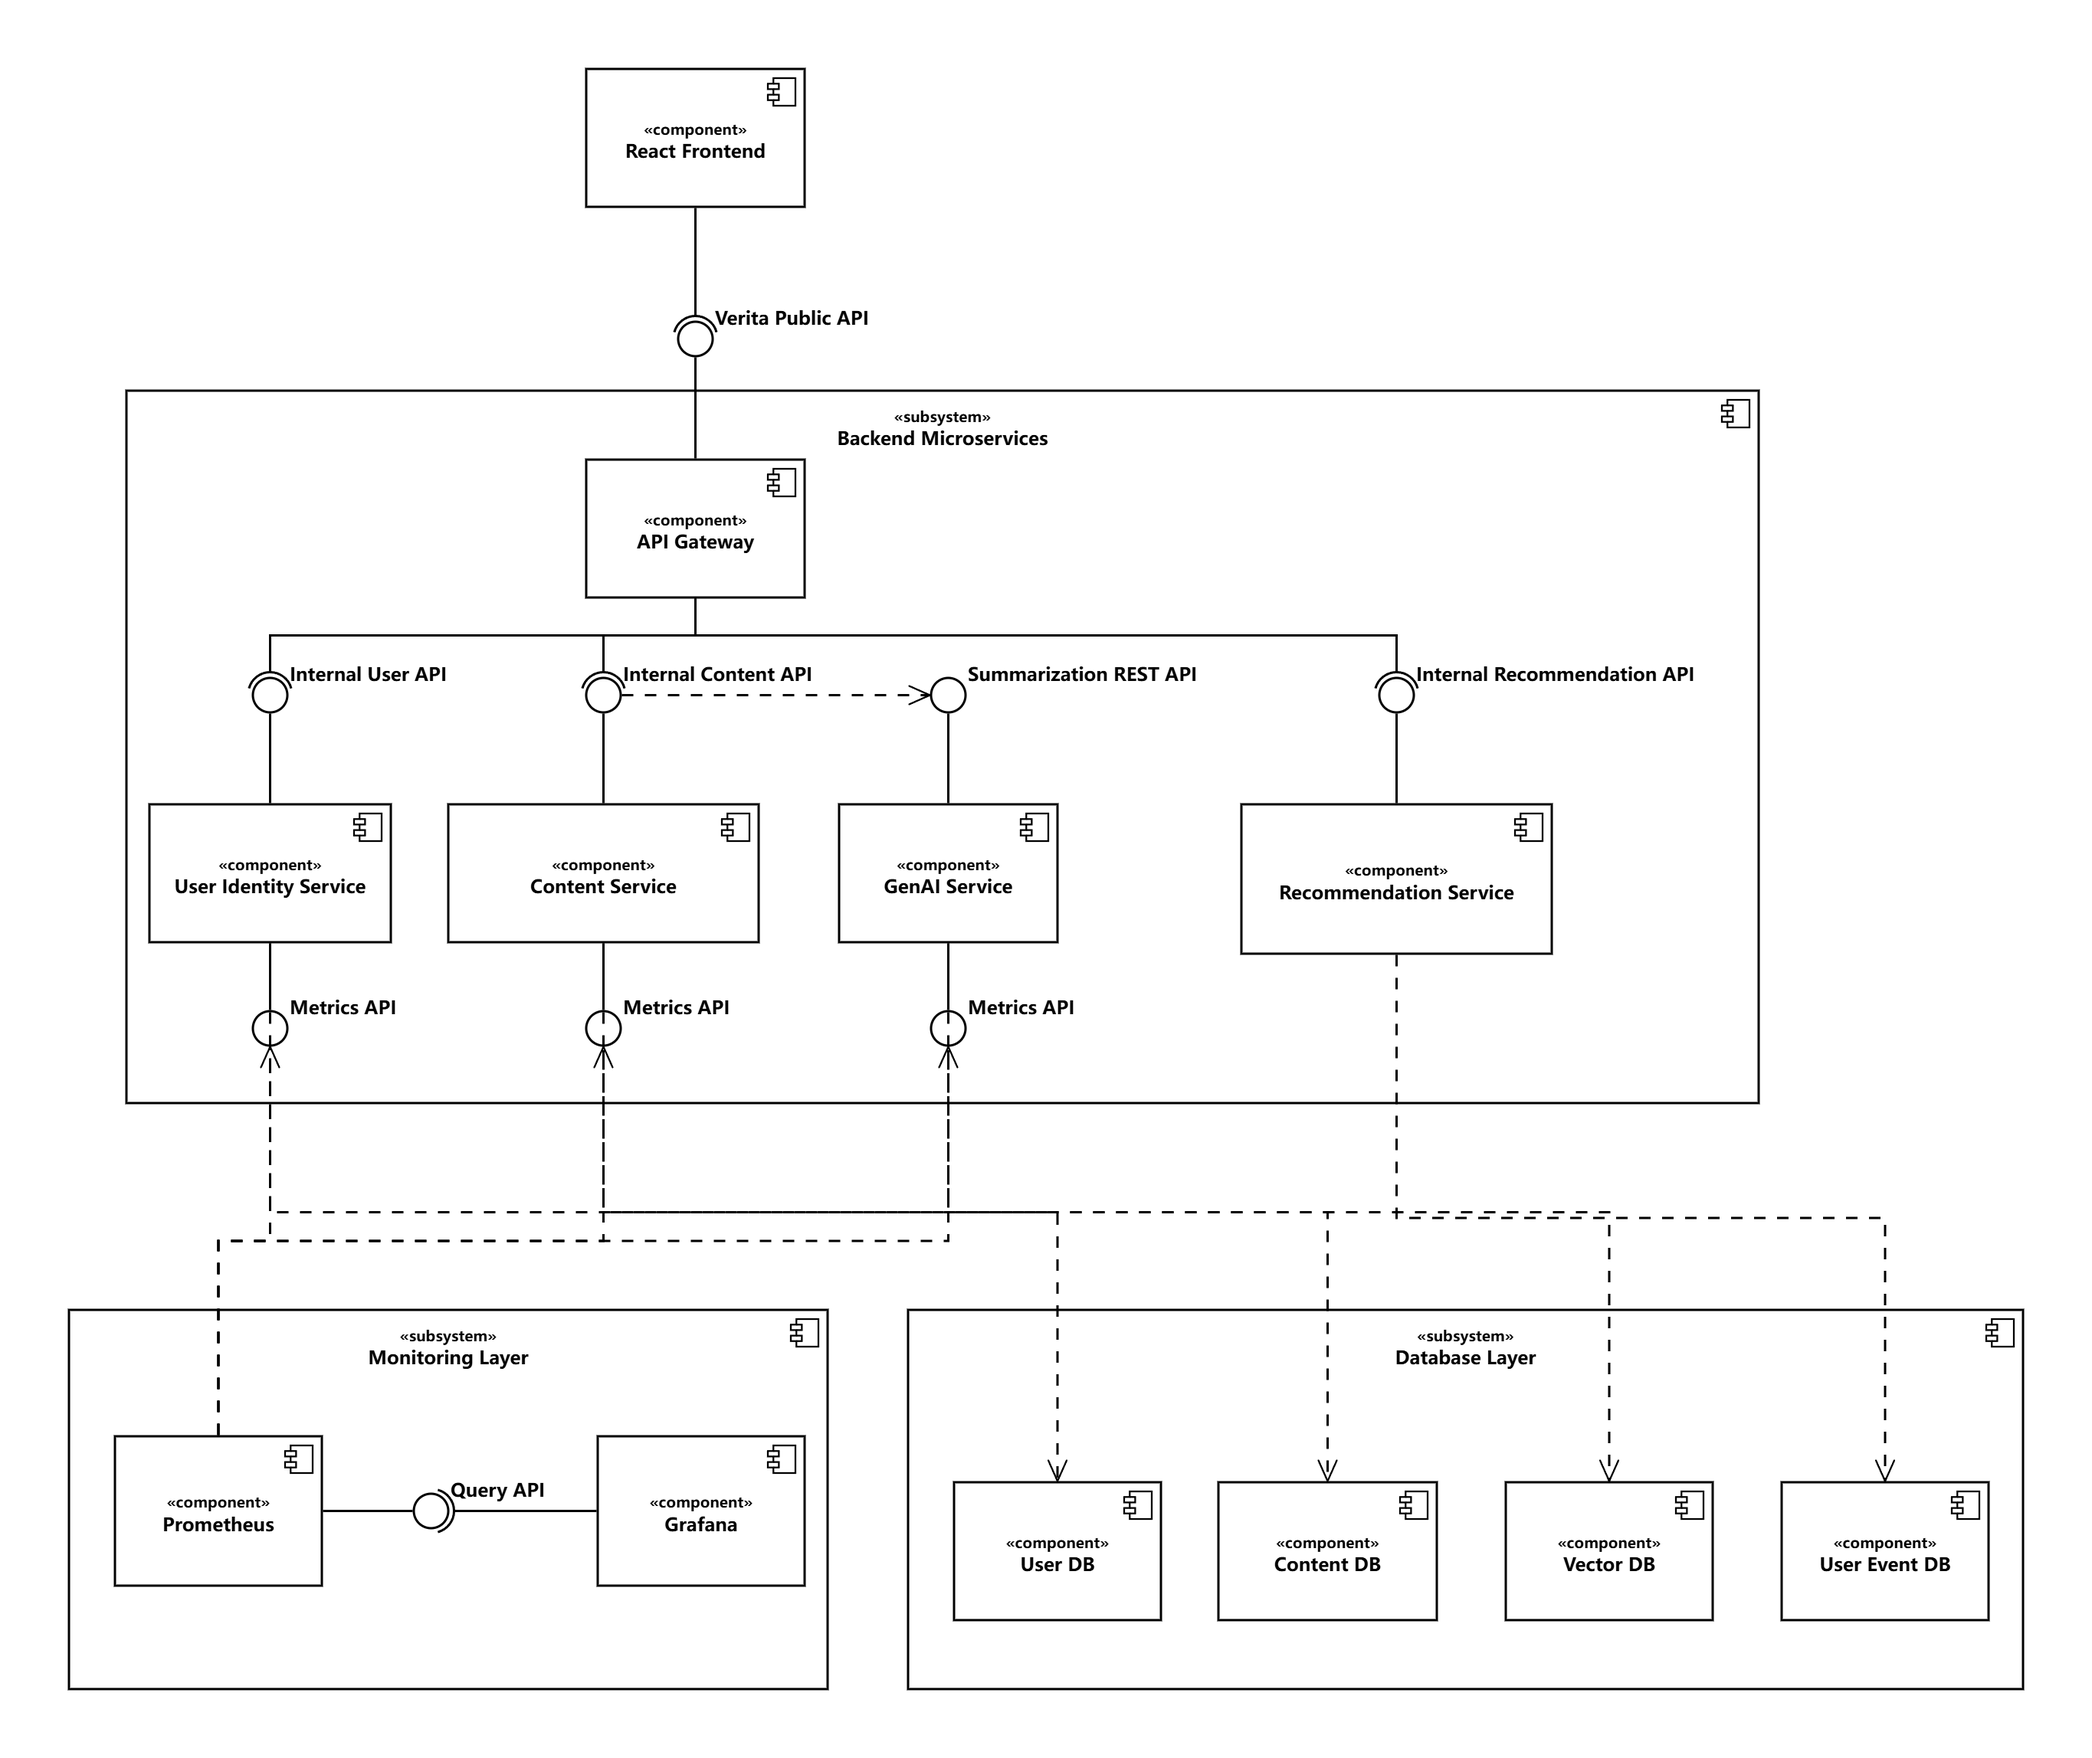
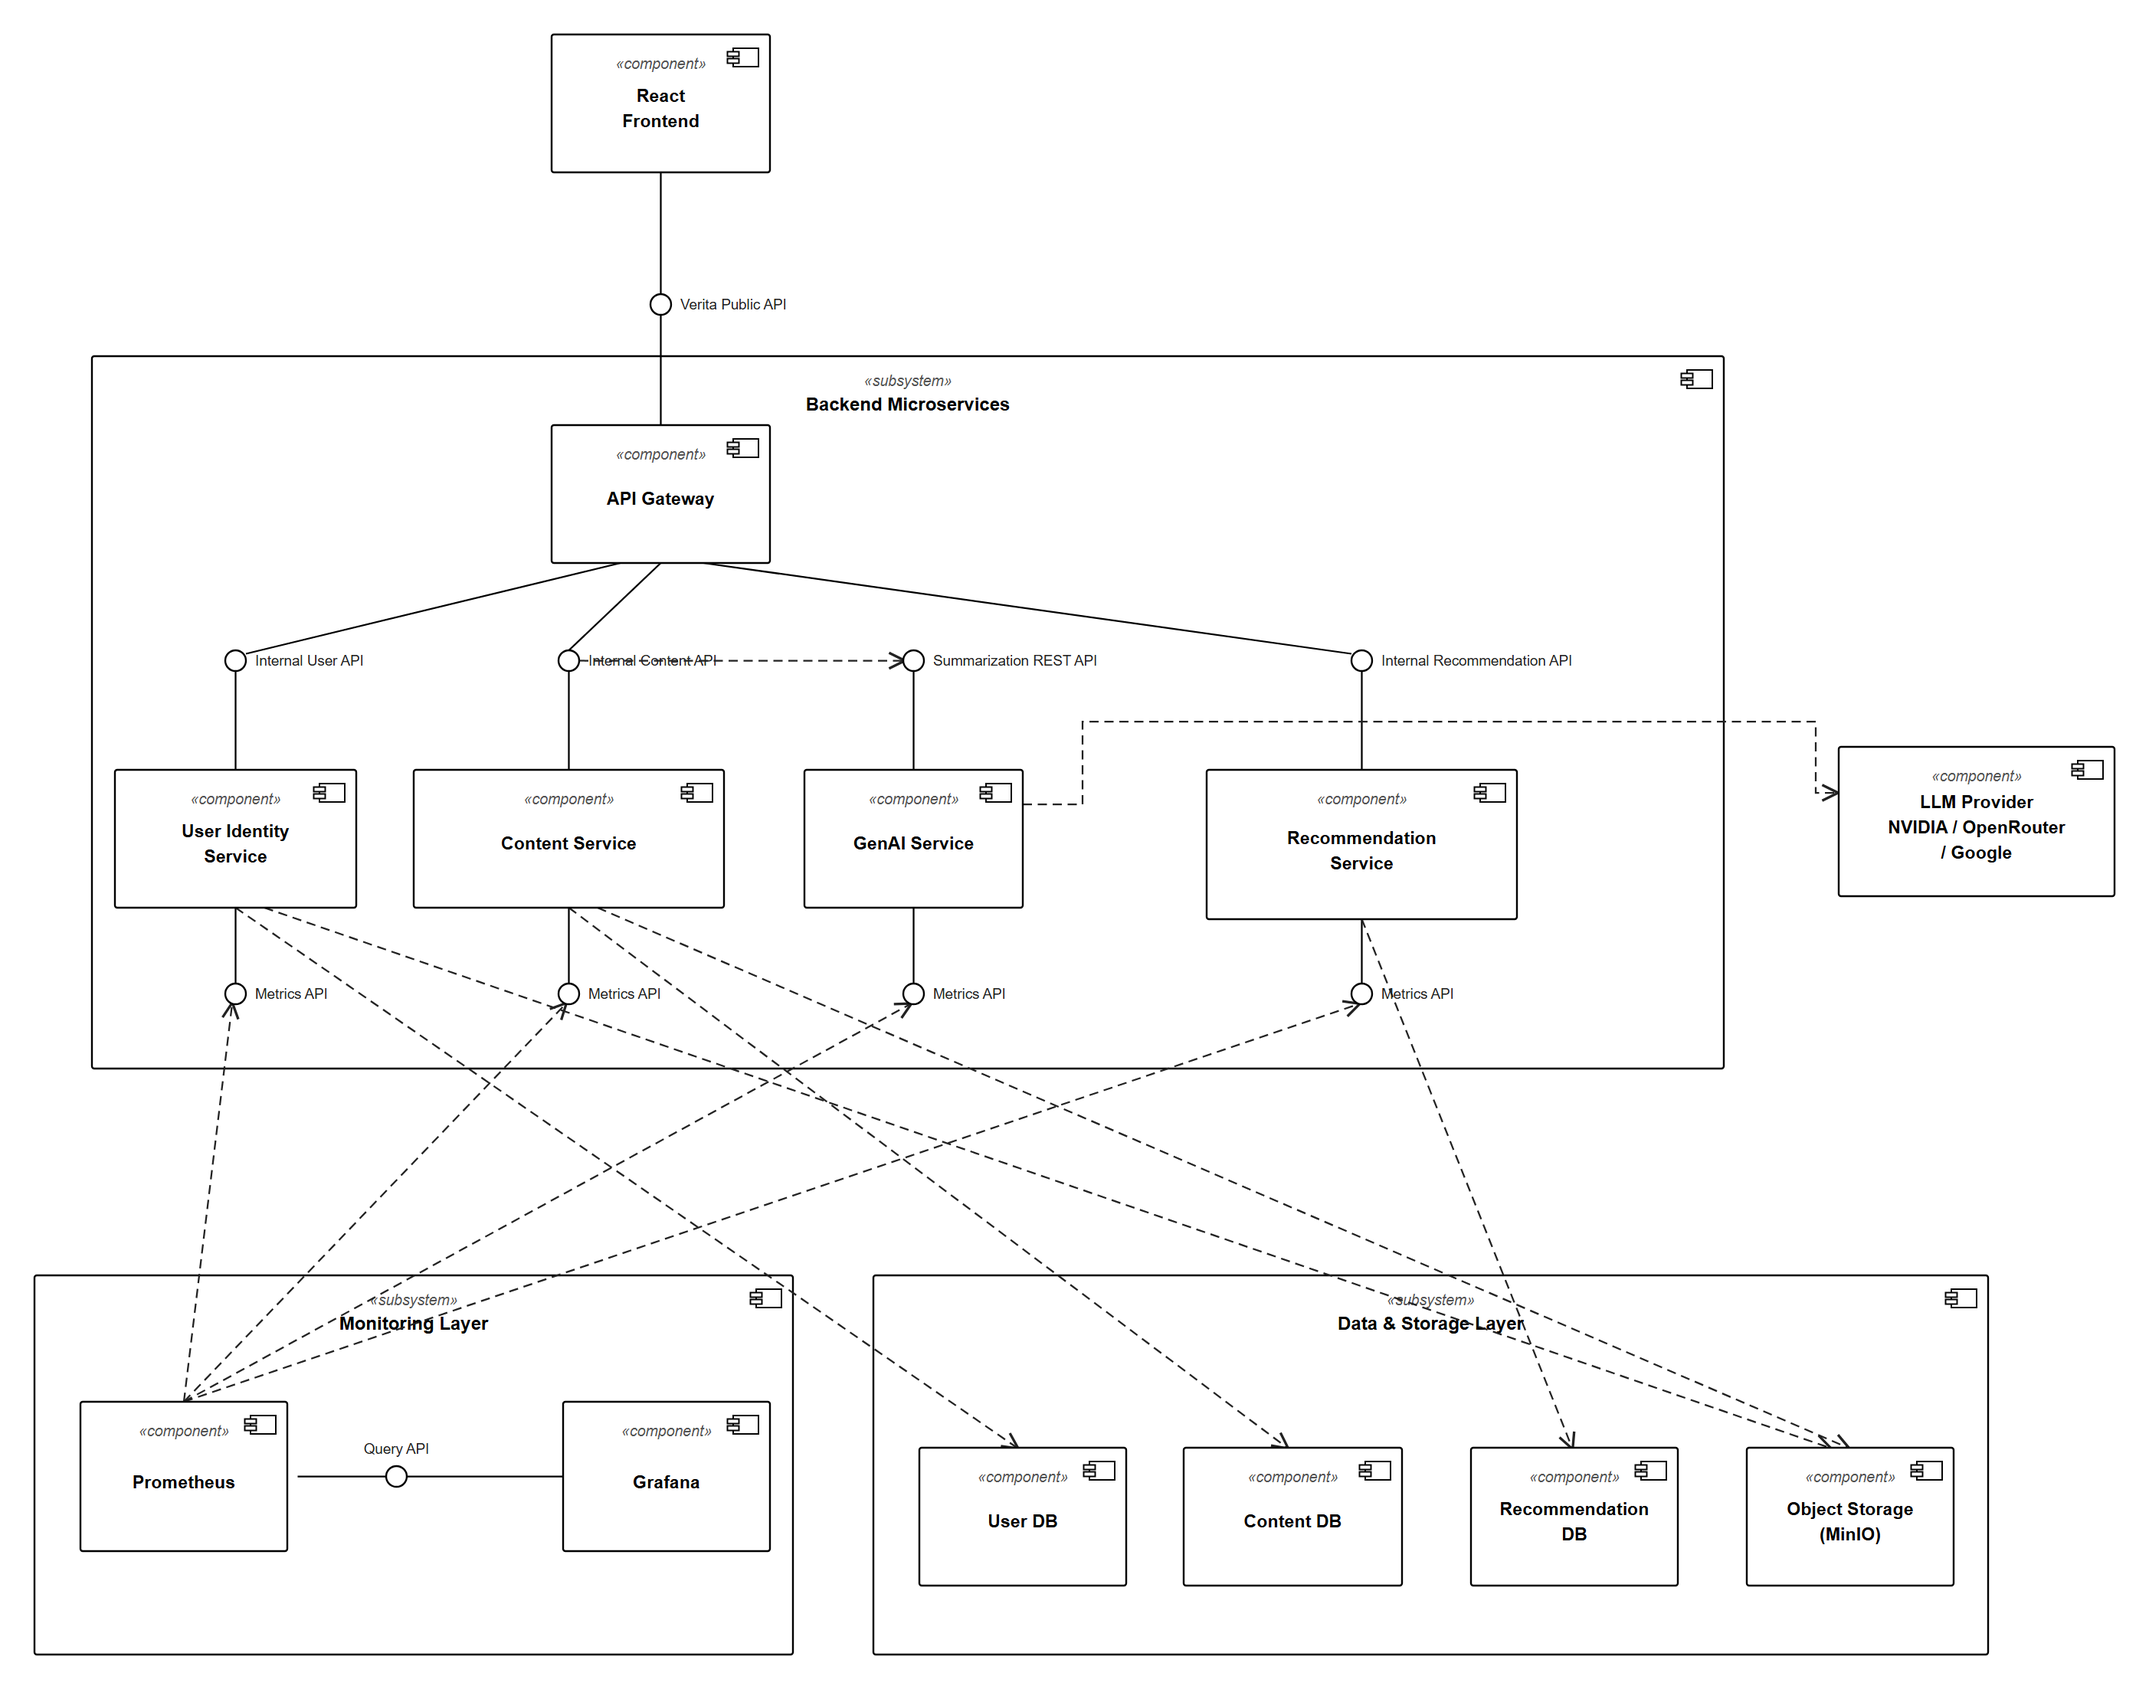
updated system architecture

diff --git a/docs/System_Overview_Architecture.md b/docs/System_Overview_Architecture.md
@@ -2,8 +2,8 @@
 
 **Project:** AI Knowledge Sharing Platform (Verita)
 **Team:** Colleagues.md
-**Date:** May 2026
-**Version:** 1.0
+**Date:** June 2026
+**Version:** 1.1
 
 ---
 
@@ -35,8 +35,9 @@ The system follows a microservices architecture consisting of:
 - **GenAI Service:** AI-powered summarization, daily digest generation
 
 **Infrastructure Layer:**
-- **API Gateway:** JWT authentication, request routing, rate limiting
-- **PostgreSQL Database:** Logically separated schemas per service
+- **API Gateway / Reverse Proxy:** Path-prefix routing that strips the prefix before forwarding (Vite proxy in local dev, frontend nginx on the Azure VM, nginx Ingress on Kubernetes). JWT tokens are validated independently by each backend service, not at the gateway.
+- **PostgreSQL Databases:** One PostgreSQL 16 instance per service (user, content, recommendation) — there is no shared instance
+- **Object Storage (MinIO):** S3-compatible store for user portraits and post images
 - **Monitoring Stack:** Prometheus and Grafana for observability
 
 **Client Layer:**
@@ -139,32 +140,37 @@ Start simple → Add complexity only when needed → Optimize based on real requ
 ```yaml
 Framework: FastAPI (Python 3.12)
 AI Framework: LangChain
-LLM Support:
-  Cloud (Required - P1):
-    - OpenAI API (GPT-4, GPT-3.5-turbo)
-  Local (Optional - P2):
-    - GPT4All
-    - LLaMA via Ollama
+LLM Provider: Pluggable via LLM_PROVIDER config (no code change to switch)
+  - NVIDIA NIM (default, e.g. moonshotai/kimi-k2.6)
+  - OpenRouter (OpenAI-compatible endpoint)
+  - Google Gemini
+External Content Sources (Daily Digest):
+  - GitHub API
+  - GNews API
+Observability: Prometheus /metrics endpoint (prometheus-fastapi-instrumentator)
 Testing: pytest, pytest-asyncio
 API Documentation: Auto-generated via FastAPI (Swagger UI)
 ```
 
 **Rationale:**
 - FastAPI provides automatic OpenAPI documentation and async support
-- LangChain simplifies prompt management and LLM integration
-- Cloud models prioritized for MVP due to superior quality and easier setup
-- Local model support deferred to P2 for cost optimization and offline capability
+- LangChain abstracts the model behind one interface, so the LLM provider (NVIDIA / OpenRouter / Google) is swappable via configuration without code changes
+- The service is **stateless**: it generates text only and persists nothing — summaries are stored by Content Service on the post, and the Daily Digest is published as a `type = DIGEST` post (no GenAI-owned database)
 
 ---
 
 ### 2.4 Database
 
 ```yaml
-Database System: PostgreSQL 16
-Schema Organization: Logical separation per microservice
-  - user_schema (User Service)
-  - content_schema (Content Service)
-  - recommendation_schema (Recommendation Service)
+Database System: PostgreSQL 16 — one independent instance per service
+Per-Service Databases:
+  - verita_users (User Service)
+  - verita_contents (Content Service)
+  - verita_recommendations (Recommendation Service)
+
+Object Storage: MinIO (S3-compatible), per-service least-privilege buckets
+  - verita-user-portraits (User Service — avatars/portraits)
+  - verita-post-photos (Content Service — post & cover images)
 
 Key Features:
   - JSONB: Flexible storage for user preferences, expertise areas
@@ -182,11 +188,11 @@ Connection Pooling: HikariCP (Spring Boot default)
 4. **Extensibility:** PostGIS for future location-based features (optional)
 5. **Standards Compliance:** Stricter SQL standards adherence
 
-**Schema Separation Strategy:**
-- Each microservice owns its logical schema (namespace)
-- Services access only their schema, enforcing loose coupling
-- Cross-service data access via REST APIs, not direct database joins
-- Enables independent scaling and potential database sharding in future
+**Database Separation Strategy:**
+- Each microservice owns its own PostgreSQL database in a separate instance/container, enforcing strict data isolation
+- No cross-database joins; cross-service references are stored as soft `UUID` values with **no** foreign-key constraints and resolved via REST API calls
+- Enables independent scaling, backup, and potential sharding per service
+- Binary assets (images) live in MinIO, not in the database — rows store only the object URL/key
 
 ---
 
@@ -219,13 +225,22 @@ The system is divided into four independent services following Domain-Driven Des
 
 **Database Organization:**
 
-PostgreSQL instance with three logical schemas:
+Three independent PostgreSQL 16 databases — one per service, no shared instance:
 
-| Schema | Owner Service | Tables |
+| Database | Owner Service | Tables |
 |--------|--------------|--------|
-| **user_schema** | User Service | users |
-| **content_schema** | Content Service | posts, comments, topics, post_topics, post_reactions, comment_likes, bookmarks |
-| **recommendation_schema** | Recommendation Service | user_interactions, topic_subscriptions <br>(P2: user_follows, notifications) |
+| **verita_users** | User Service | users |
+| **verita_contents** | Content Service | posts, comments, topics, post_topics, post_reactions, comment_likes, bookmarks |
+| **verita_recommendations** | Recommendation Service | user_interactions, topic_subscriptions <br>(P2: user_follows, notifications) |
+
+**Object Storage (MinIO):**
+
+Binary assets are stored in MinIO, not in PostgreSQL — database rows hold only the object URL/key.
+
+| Bucket | Owner Service | Contents |
+|--------|--------------|----------|
+| **verita-user-portraits** | User Service | User avatars / portrait images |
+| **verita-post-photos** | Content Service | Post inline images and cover images |
 
 ---
 
